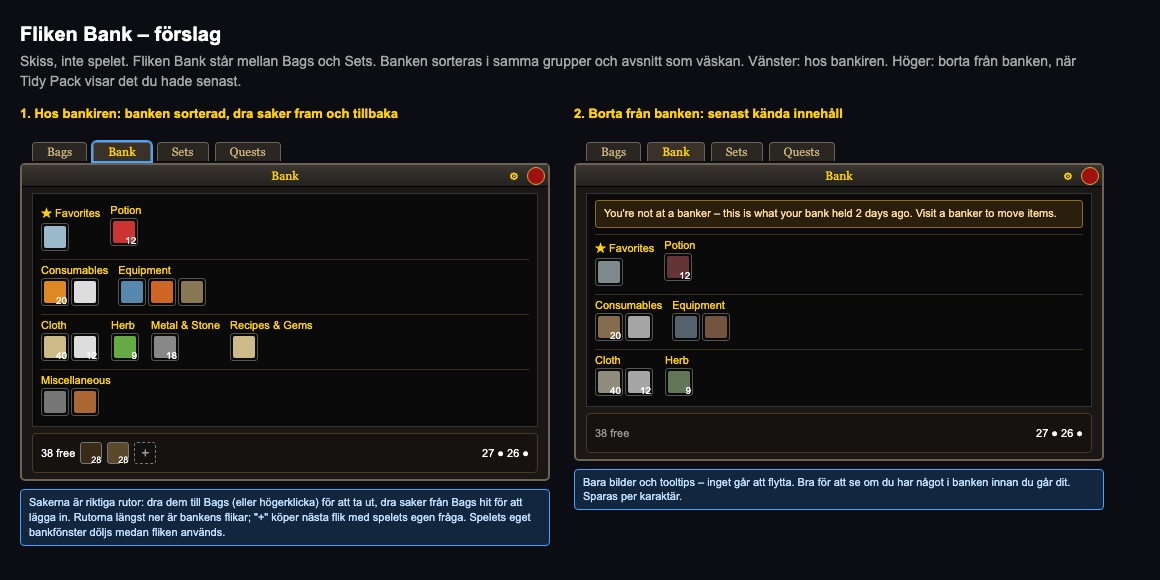
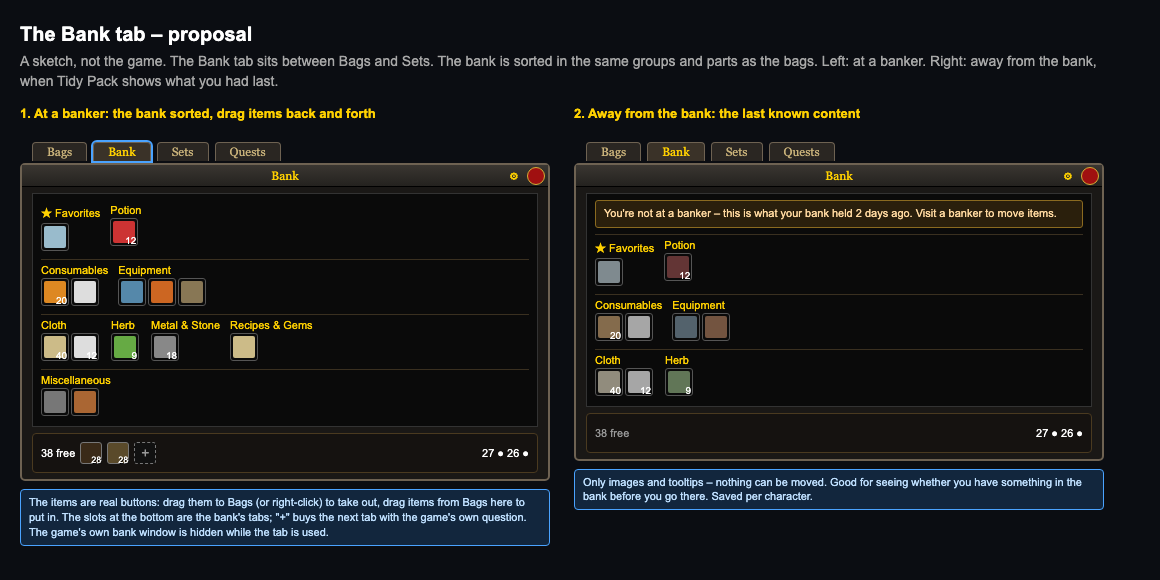
Translate .design/sketch-bank-tab to English (#7)

diff --git a/.design/sketch-bank-tab.html b/.design/sketch-bank-tab.html
@@ -1,4 +1,4 @@
-<!DOCTYPE html><html><head><meta charset="utf-8"><title>Tidy Pack – skiss: fliken Bank</title>
+<!DOCTYPE html><html><head><meta charset="utf-8"><title>Tidy Pack – sketch: the Bank tab</title>
 <style>
 *{box-sizing:border-box}body{margin:0;padding:20px;background:#0b0d12;color:#d8d8d8;font:14px/1.4 Arial,sans-serif;width:1120px}
 h1{font-size:20px;margin:0 0 4px;color:#fff}.n{color:#a8a8a8;margin:0 0 14px;max-width:1080px}
@@ -19,11 +19,11 @@ h1{font-size:20px;margin:0 0 4px;color:#fff}.n{color:#a8a8a8;margin:0 0 14px;max
 .banner{background:#2a1f0c;border:1px solid #8a6a20;color:#ffd9a0;font:11px/1.4 Arial;padding:5px 8px;border-radius:3px;margin-bottom:6px}
 .call{background:#12263d;border:1px solid #4aa3ff;color:#bfe0ff;font:11px/1.35 Arial;padding:5px 8px;border-radius:4px;margin-top:8px}
 </style></head><body>
-<h1>Fliken Bank – förslag</h1>
-<p class="n">Skiss, inte spelet. Fliken Bank står mellan Bags och Sets. Banken sorteras i samma grupper och avsnitt som väskan. Vänster: hos bankiren. Höger: borta från banken, när Tidy Pack visar det du hade senast.</p>
+<h1>The Bank tab – proposal</h1>
+<p class="n">A sketch, not the game. The Bank tab sits between Bags and Sets. The bank is sorted in the same groups and parts as the bags. Left: at a banker. Right: away from the bank, when Tidy Pack shows what you had last.</p>
 <div class="row">
 
-<div class="col"><h2>1. Hos bankiren: banken sorterad, dra saker fram och tillbaka</h2><div class="bag">
+<div class="col"><h2>1. At a banker: the bank sorted, drag items back and forth</h2><div class="bag">
 <div class="tabs"><div class="tab">Bags</div><div class="tab on new">Bank</div><div class="tab">Sets</div><div class="tab">Quests</div></div>
 <div class="t">Bank<div class="g">⚙</div><div class="x"></div></div>
 <div class="in">
@@ -34,9 +34,9 @@ h1{font-size:20px;margin:0 0 4px;color:#fff}.n{color:#a8a8a8;margin:0 0 14px;max
 </div>
 <div class="foot"><span>38 free</span><span class="bb"><s>28</s></span><span class="bb" style="background:#5a4a2a"><s>28</s></span><span class="bb buy">+</span><span class="money">27 ● 26 ●</span></div>
 </div>
-<div class="call">Sakerna är riktiga rutor: dra dem till Bags (eller högerklicka) för att ta ut, dra saker från Bags hit för att lägga in. Rutorna längst ner är bankens flikar; "+" köper nästa flik med spelets egen fråga. Spelets eget bankfönster döljs medan fliken används.</div></div>
+<div class="call">The items are real buttons: drag them to Bags (or right-click) to take out, drag items from Bags here to put in. The slots at the bottom are the bank's tabs; "+" buys the next tab with the game's own question. The game's own bank window is hidden while the tab is used.</div></div>
 
-<div class="col"><h2>2. Borta från banken: senast kända innehåll</h2><div class="bag off">
+<div class="col"><h2>2. Away from the bank: the last known content</h2><div class="bag off">
 <div class="tabs"><div class="tab">Bags</div><div class="tab on">Bank</div><div class="tab">Sets</div><div class="tab">Quests</div></div>
 <div class="t">Bank<div class="g">⚙</div><div class="x"></div></div>
 <div class="in">
@@ -47,6 +47,6 @@ h1{font-size:20px;margin:0 0 4px;color:#fff}.n{color:#a8a8a8;margin:0 0 14px;max
 </div>
 <div class="foot"><span style="color:#999">38 free</span><span class="money">27 ● 26 ●</span></div>
 </div>
-<div class="call">Bara bilder och tooltips – inget går att flytta. Bra för att se om du har något i banken innan du går dit. Sparas per karaktär.</div></div>
+<div class="call">Only images and tooltips – nothing can be moved. Good for seeing whether you have something in the bank before you go there. Saved per character.</div></div>
 
 </div></body></html>
